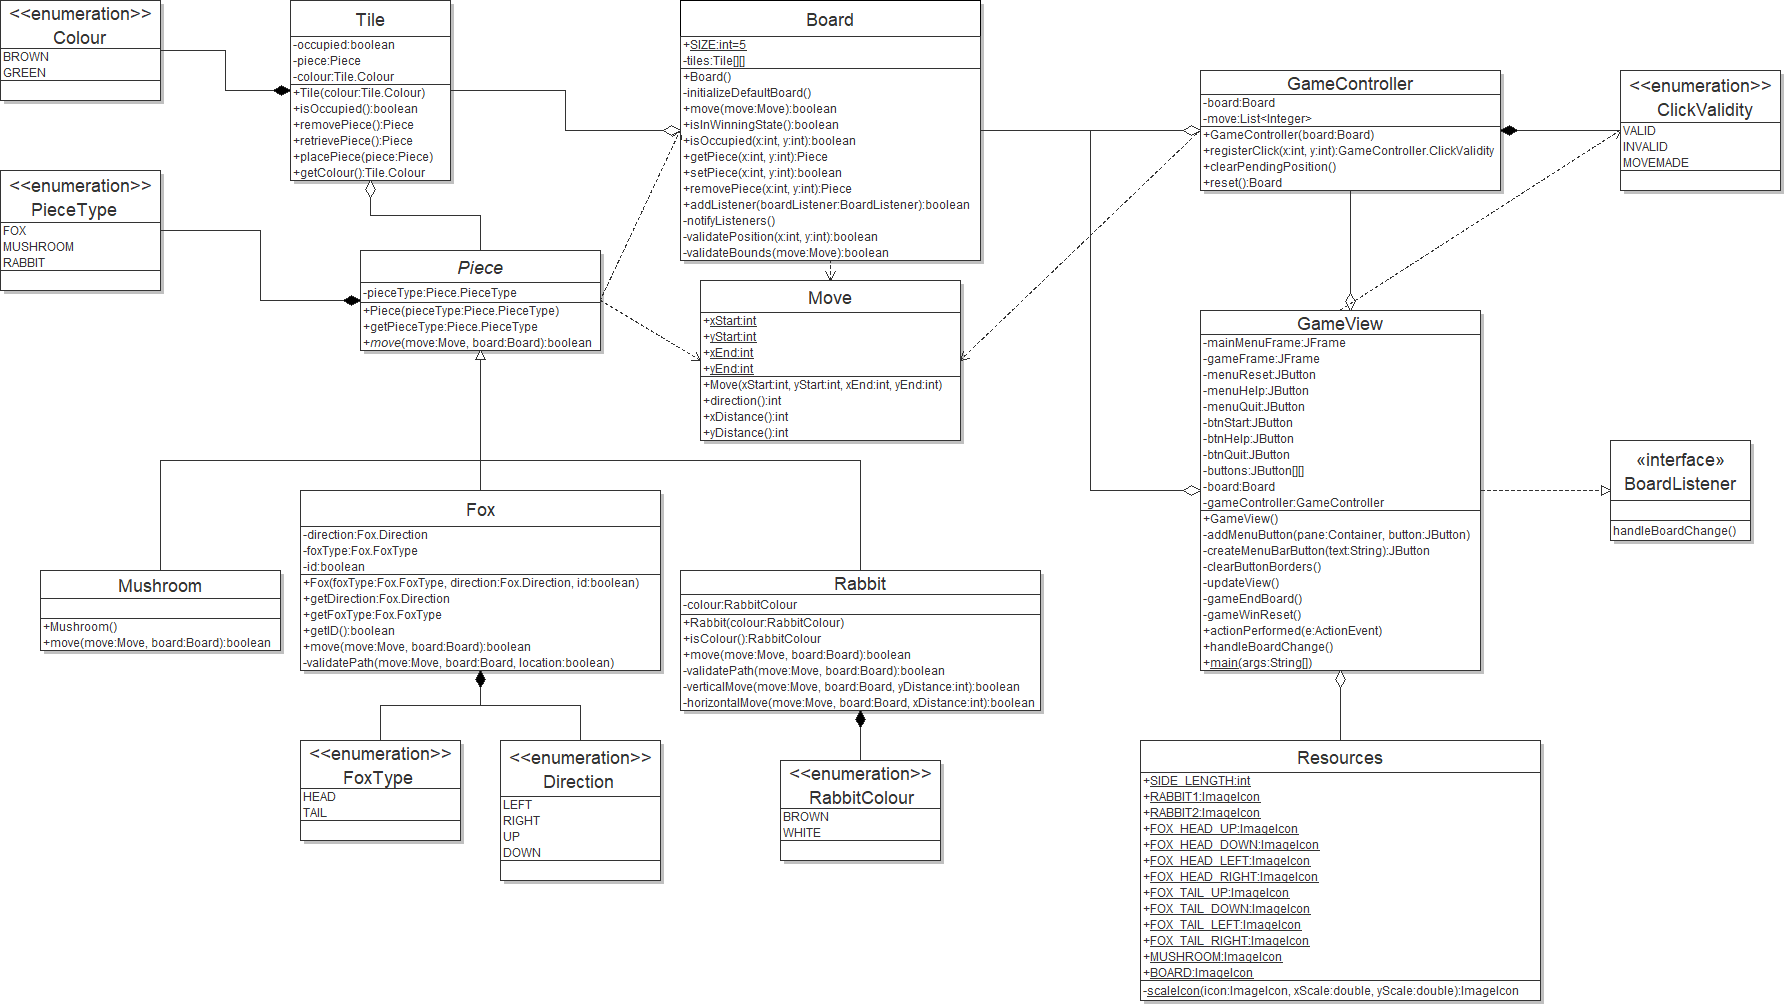
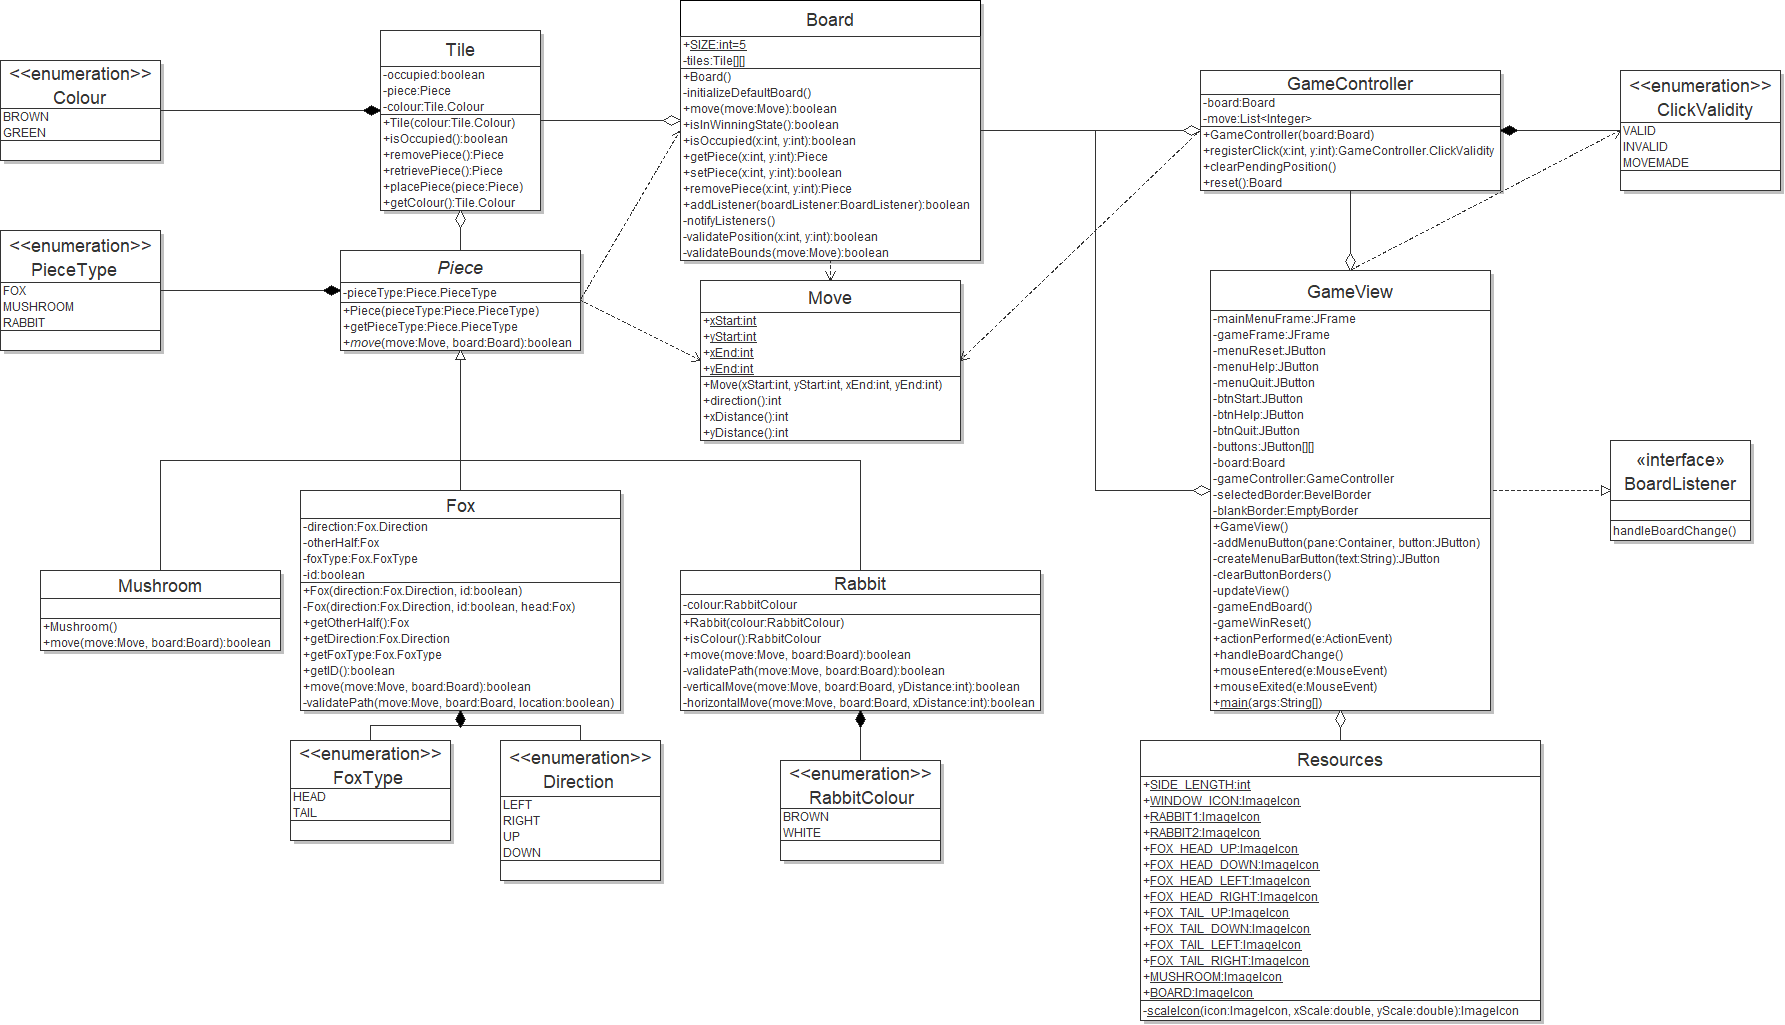
Update UML Diagram

diff --git a/src/main/java/model/Fox.java b/src/main/java/model/Fox.java
@@ -48,12 +48,8 @@ public class Fox extends Piece {
 	/**
 	 * Construct a new Fox
 	 * 
-	 * @param foxType   The fox type of the fox, as a FoxType
 	 * @param direction The direction given for the Fox
 	 * @param id        The id of the fox, used to differentiate foxes
-	 * @param otherBody The location of other half of the fox. True is the fox has
-	 * 					it's other half to the right or above, false if it has it's 
-	 * 					other half to the left or below.
 	 */
 	public Fox(Direction direction, boolean id) {
 		super(PieceType.FOX);
@@ -227,7 +223,7 @@ public class Fox extends Piece {
 			}
 			return true; // The move is valid for the fox
 		// Trying to move vertically.
-		} else { // We are moving 
+		} else { 
 			if (location && yDistance > 0) { // The other part of the fox is up and we are moving down
 				for (int i = yStart + 1; i <= yEnd; i++) { // Need to make sure there are no obstacles in the path
 					if (board.isOccupied(xStart, i)) {

diff --git a/src/main/java/view/GameView.java b/src/main/java/view/GameView.java
@@ -228,7 +228,7 @@ public class GameView extends MouseAdapter implements BoardListener, ActionListe
 	}
 
 	/**
-	 * Clears the bevels on all buttons.
+	 * Clears the borders on all buttons.
 	 */
 	private void clearButtonBorders() {
 		for (int i = 0; i < Board.SIZE; i++) {
@@ -327,6 +327,7 @@ public class GameView extends MouseAdapter implements BoardListener, ActionListe
 		updateView();
 		if (board.isInWinningState()) {
 			gameEndBoard(false);
+			clearButtonBorders();
 			if (JOptionPane.showOptionDialog(null, "Congrats, you win! Thank you for playing. Reset or quit?",
 					"Game over!", JOptionPane.DEFAULT_OPTION, JOptionPane.PLAIN_MESSAGE, null,
 					new String[] { "Reset", "Quit" }, null) == 0) {
